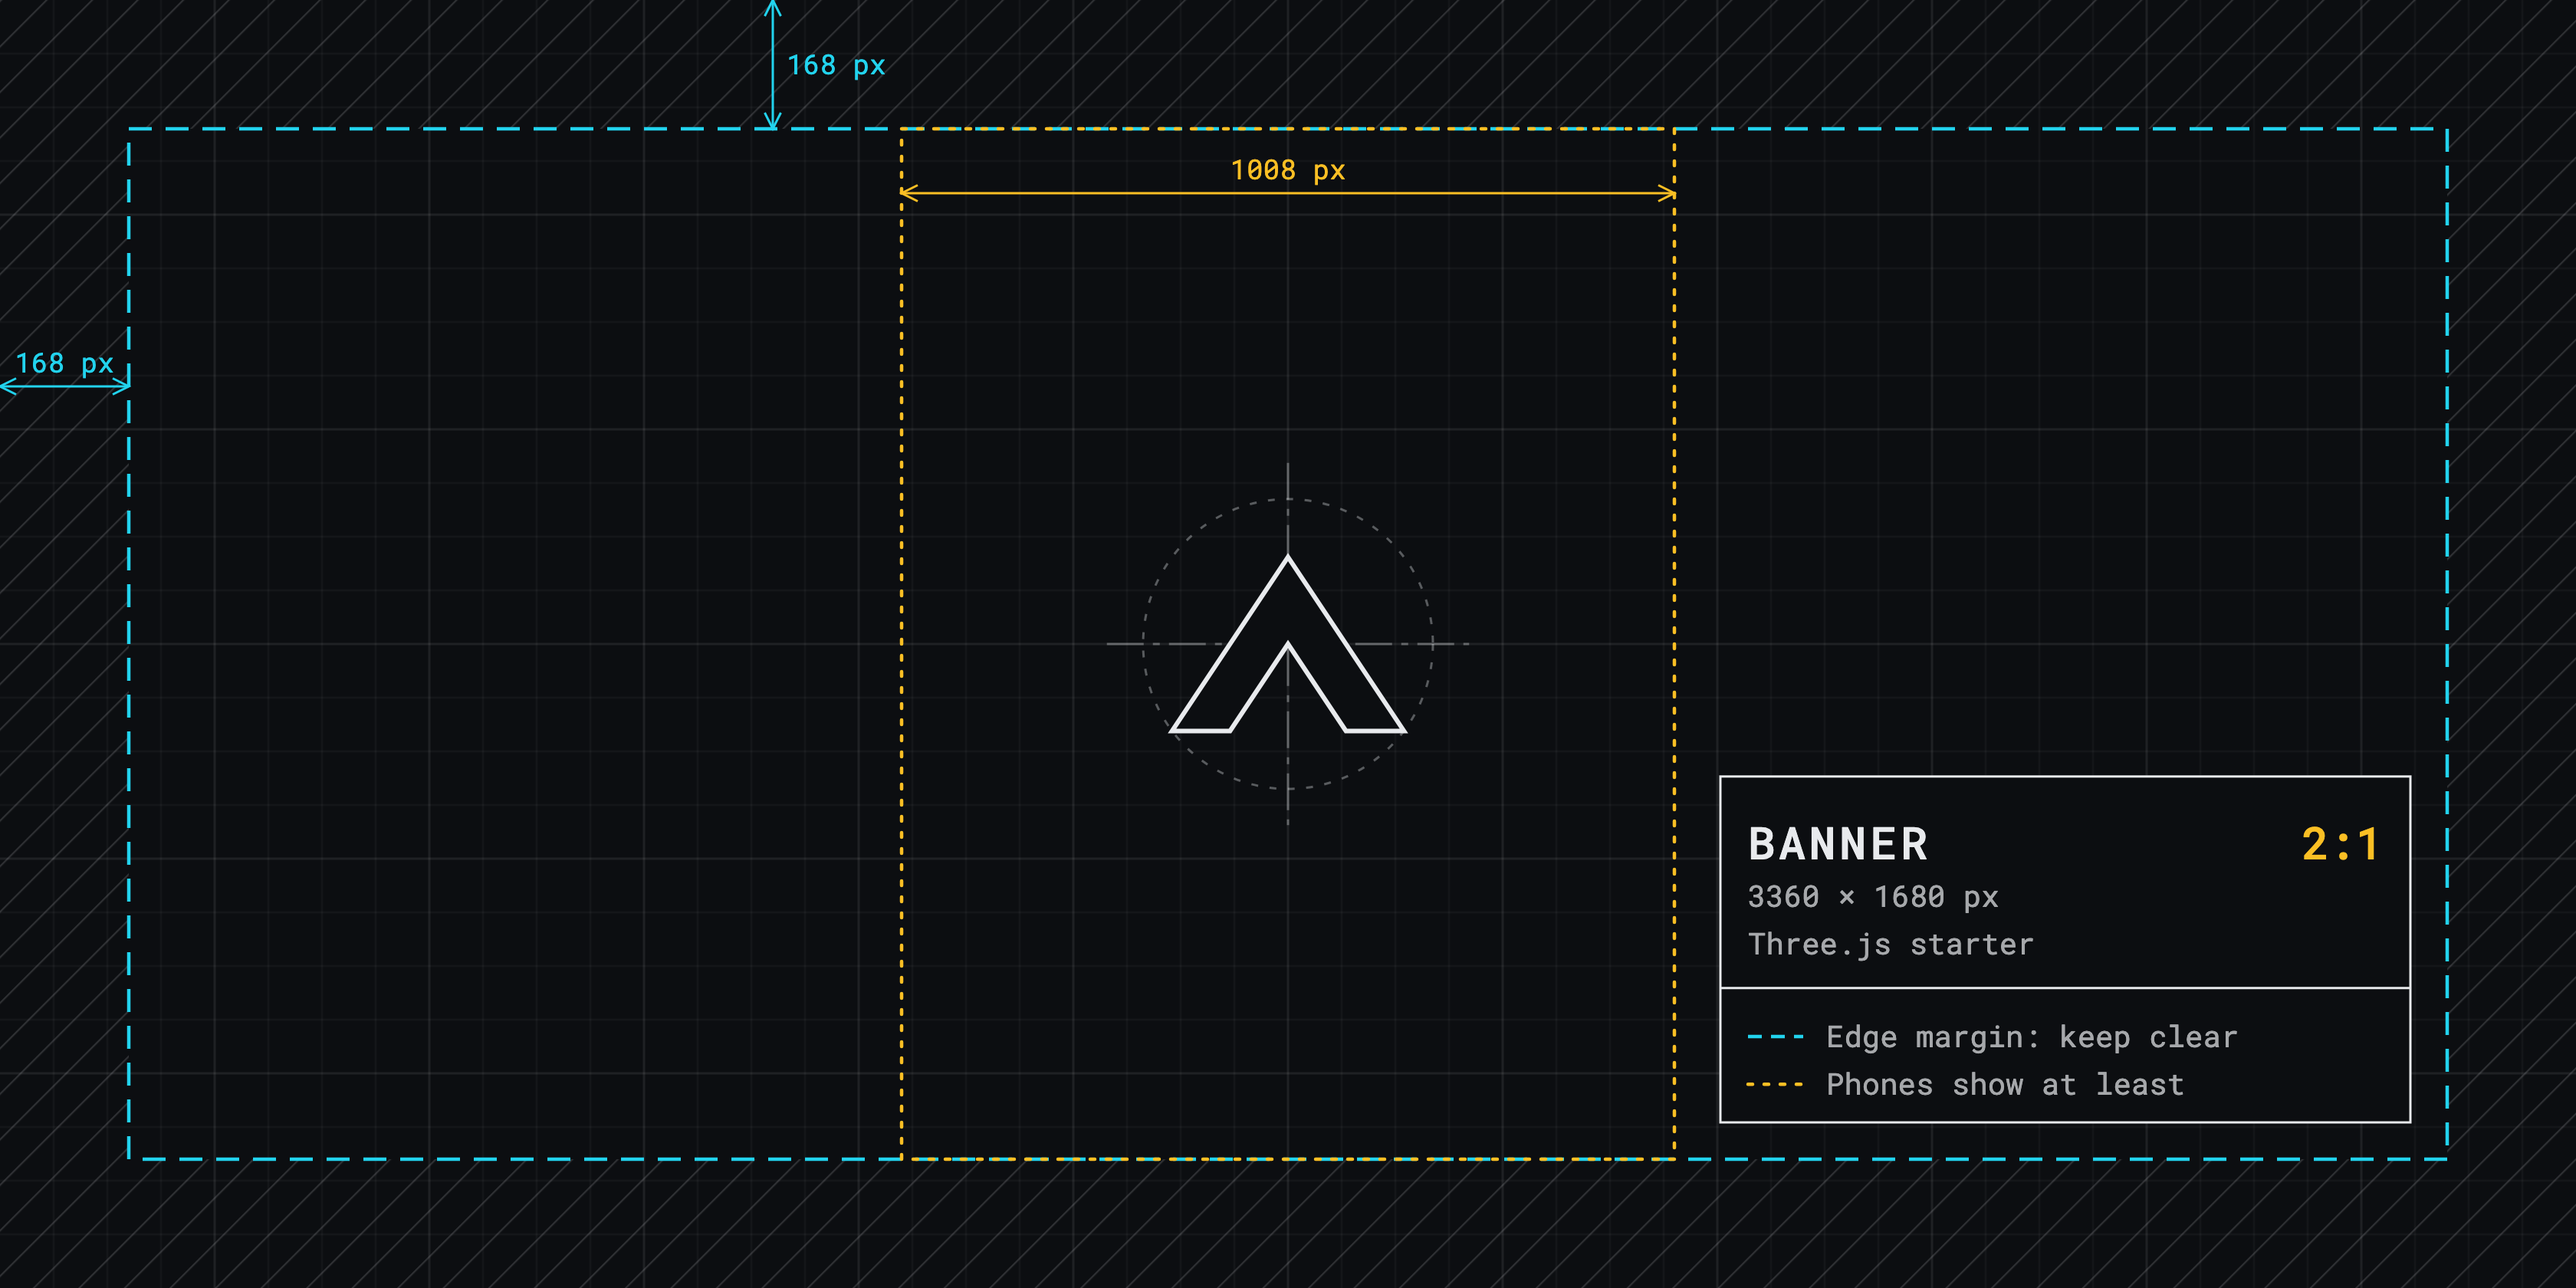
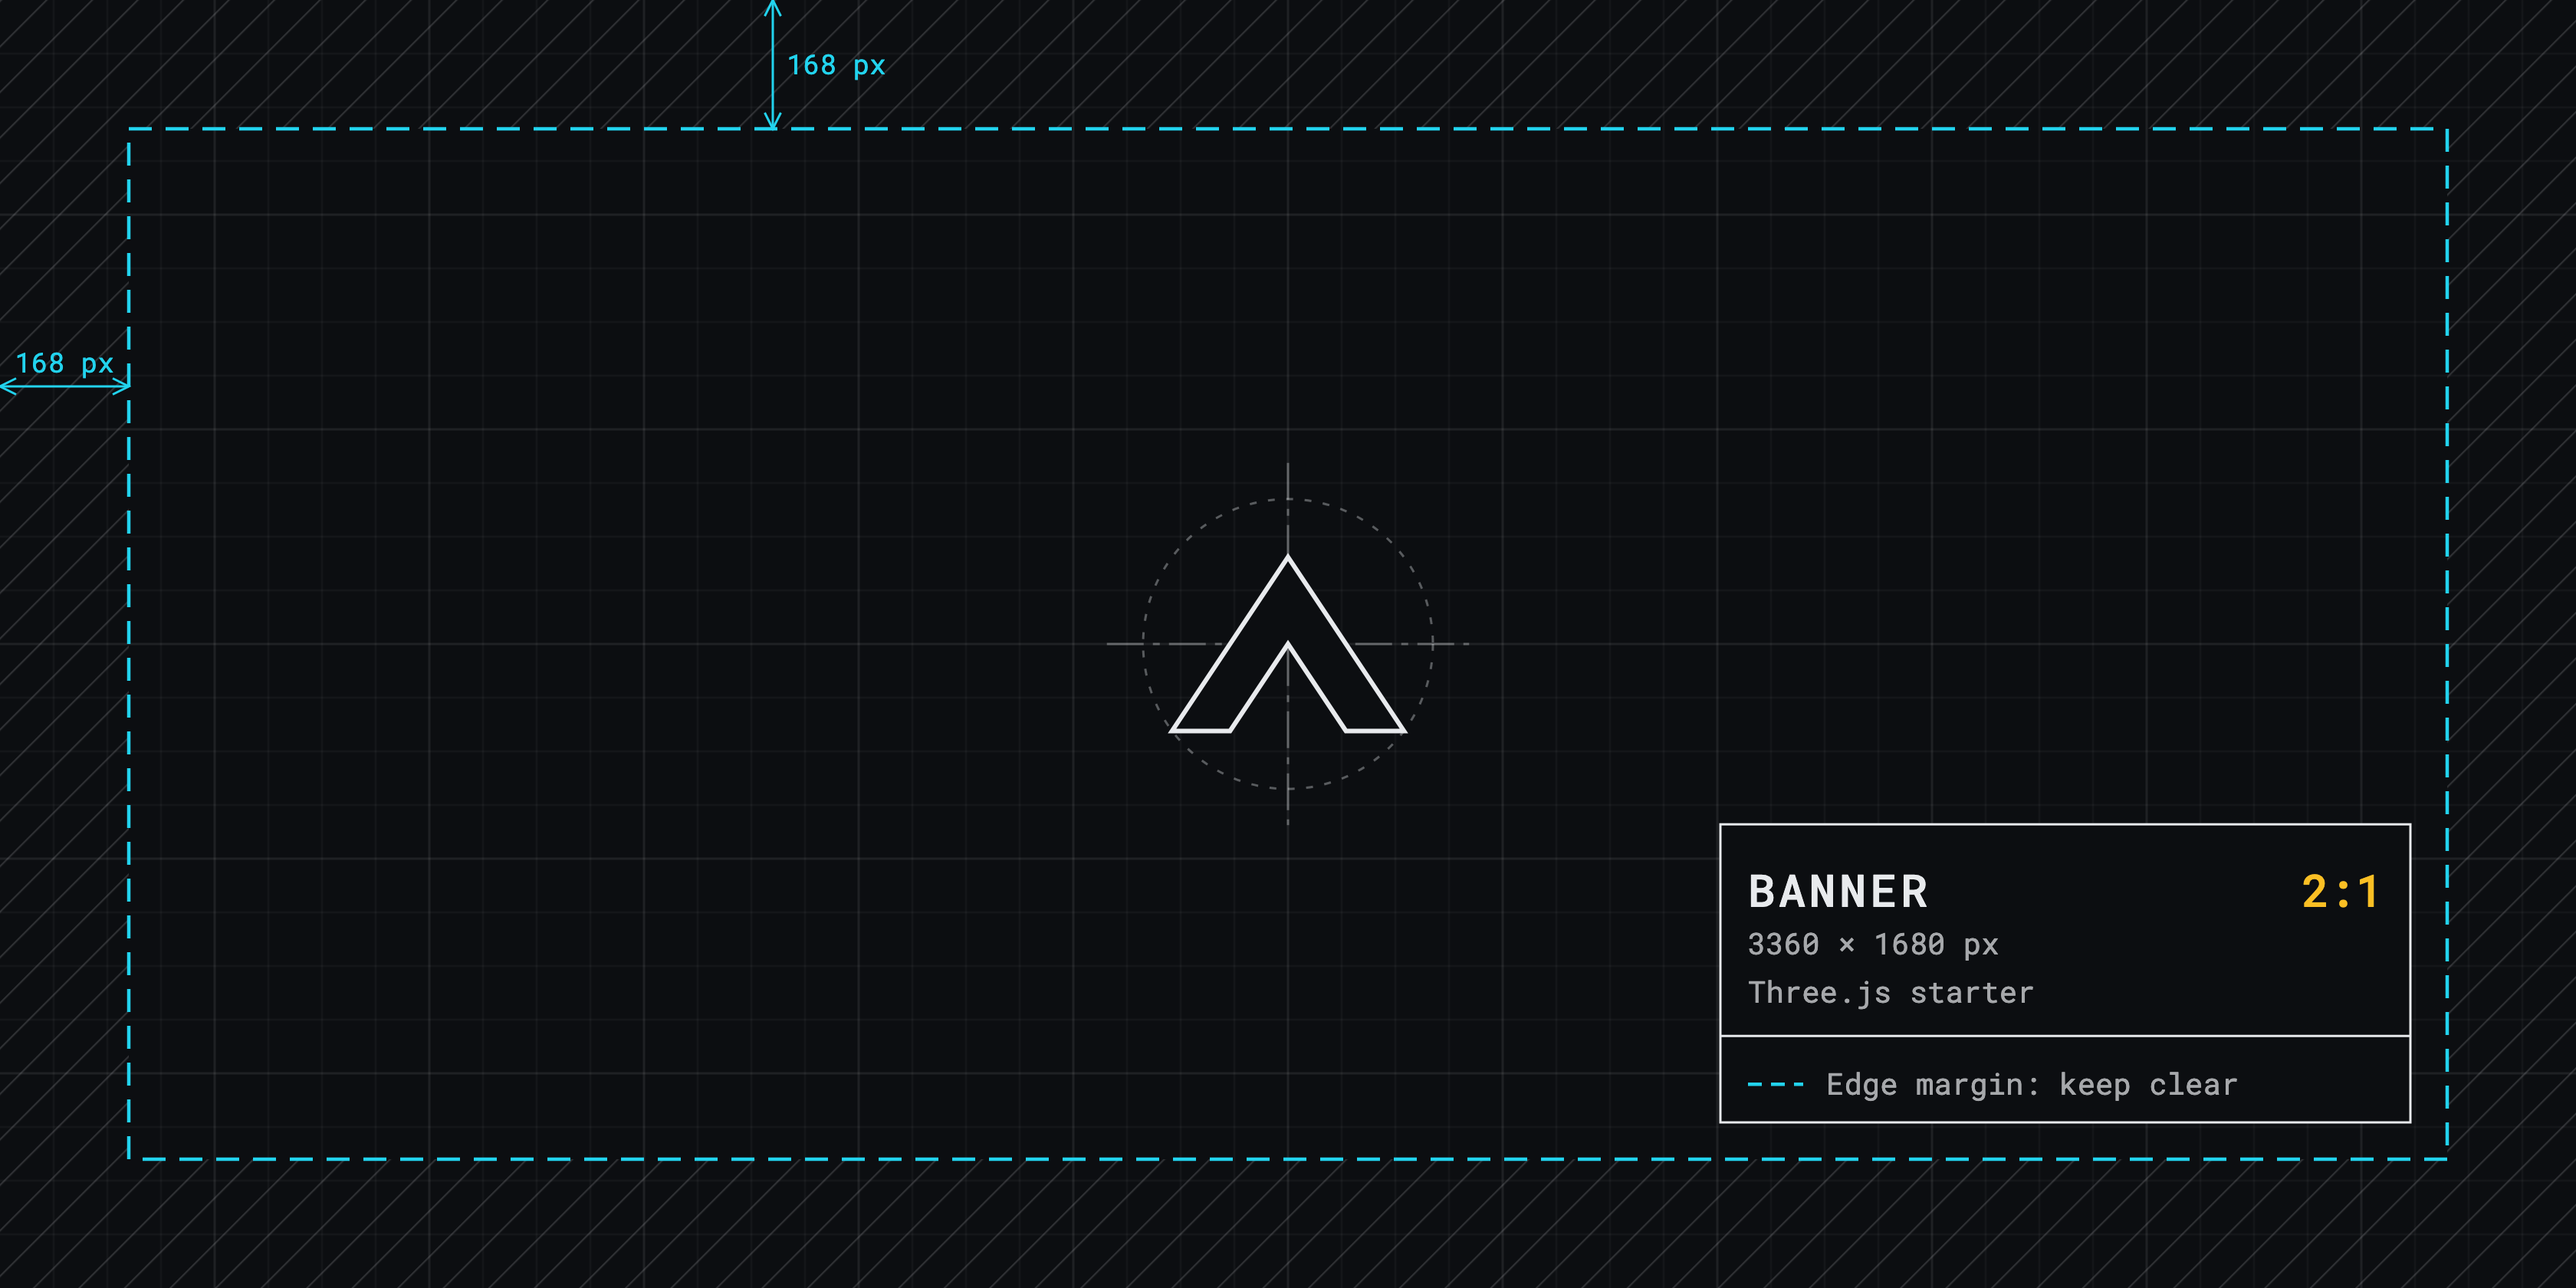
chore: revise margin guidance

diff --git a/AGENTS.md b/AGENTS.md
@@ -57,7 +57,7 @@ Add `--json` to an `arc` command (every one but `login`, `logout`, `open`, and `
 - Write the title, tagline, and bio as plain text.
 - Use only the description's allowed elements: no code, tables, raw HTML, or `#` and `##` headings.
 - Match art ratios exactly. A banner is 2:1, so 1030×512 is rejected.
-- Keep what matters in art inside its safe zones: 10% of the shorter side in from every edge, and on a wide cover, banner, or splash, the centered 3:4 area. The placeholders mark both; see https://developer.arcadible.com/publish/store-page.md, "Safe zones".
+- Keep what matters in art inside its edge margin: 10% of the shorter side in from every edge. The placeholders mark it; see https://developer.arcadible.com/publish/store-page.md, "Edge margin".
 
 ## Deploying
 
